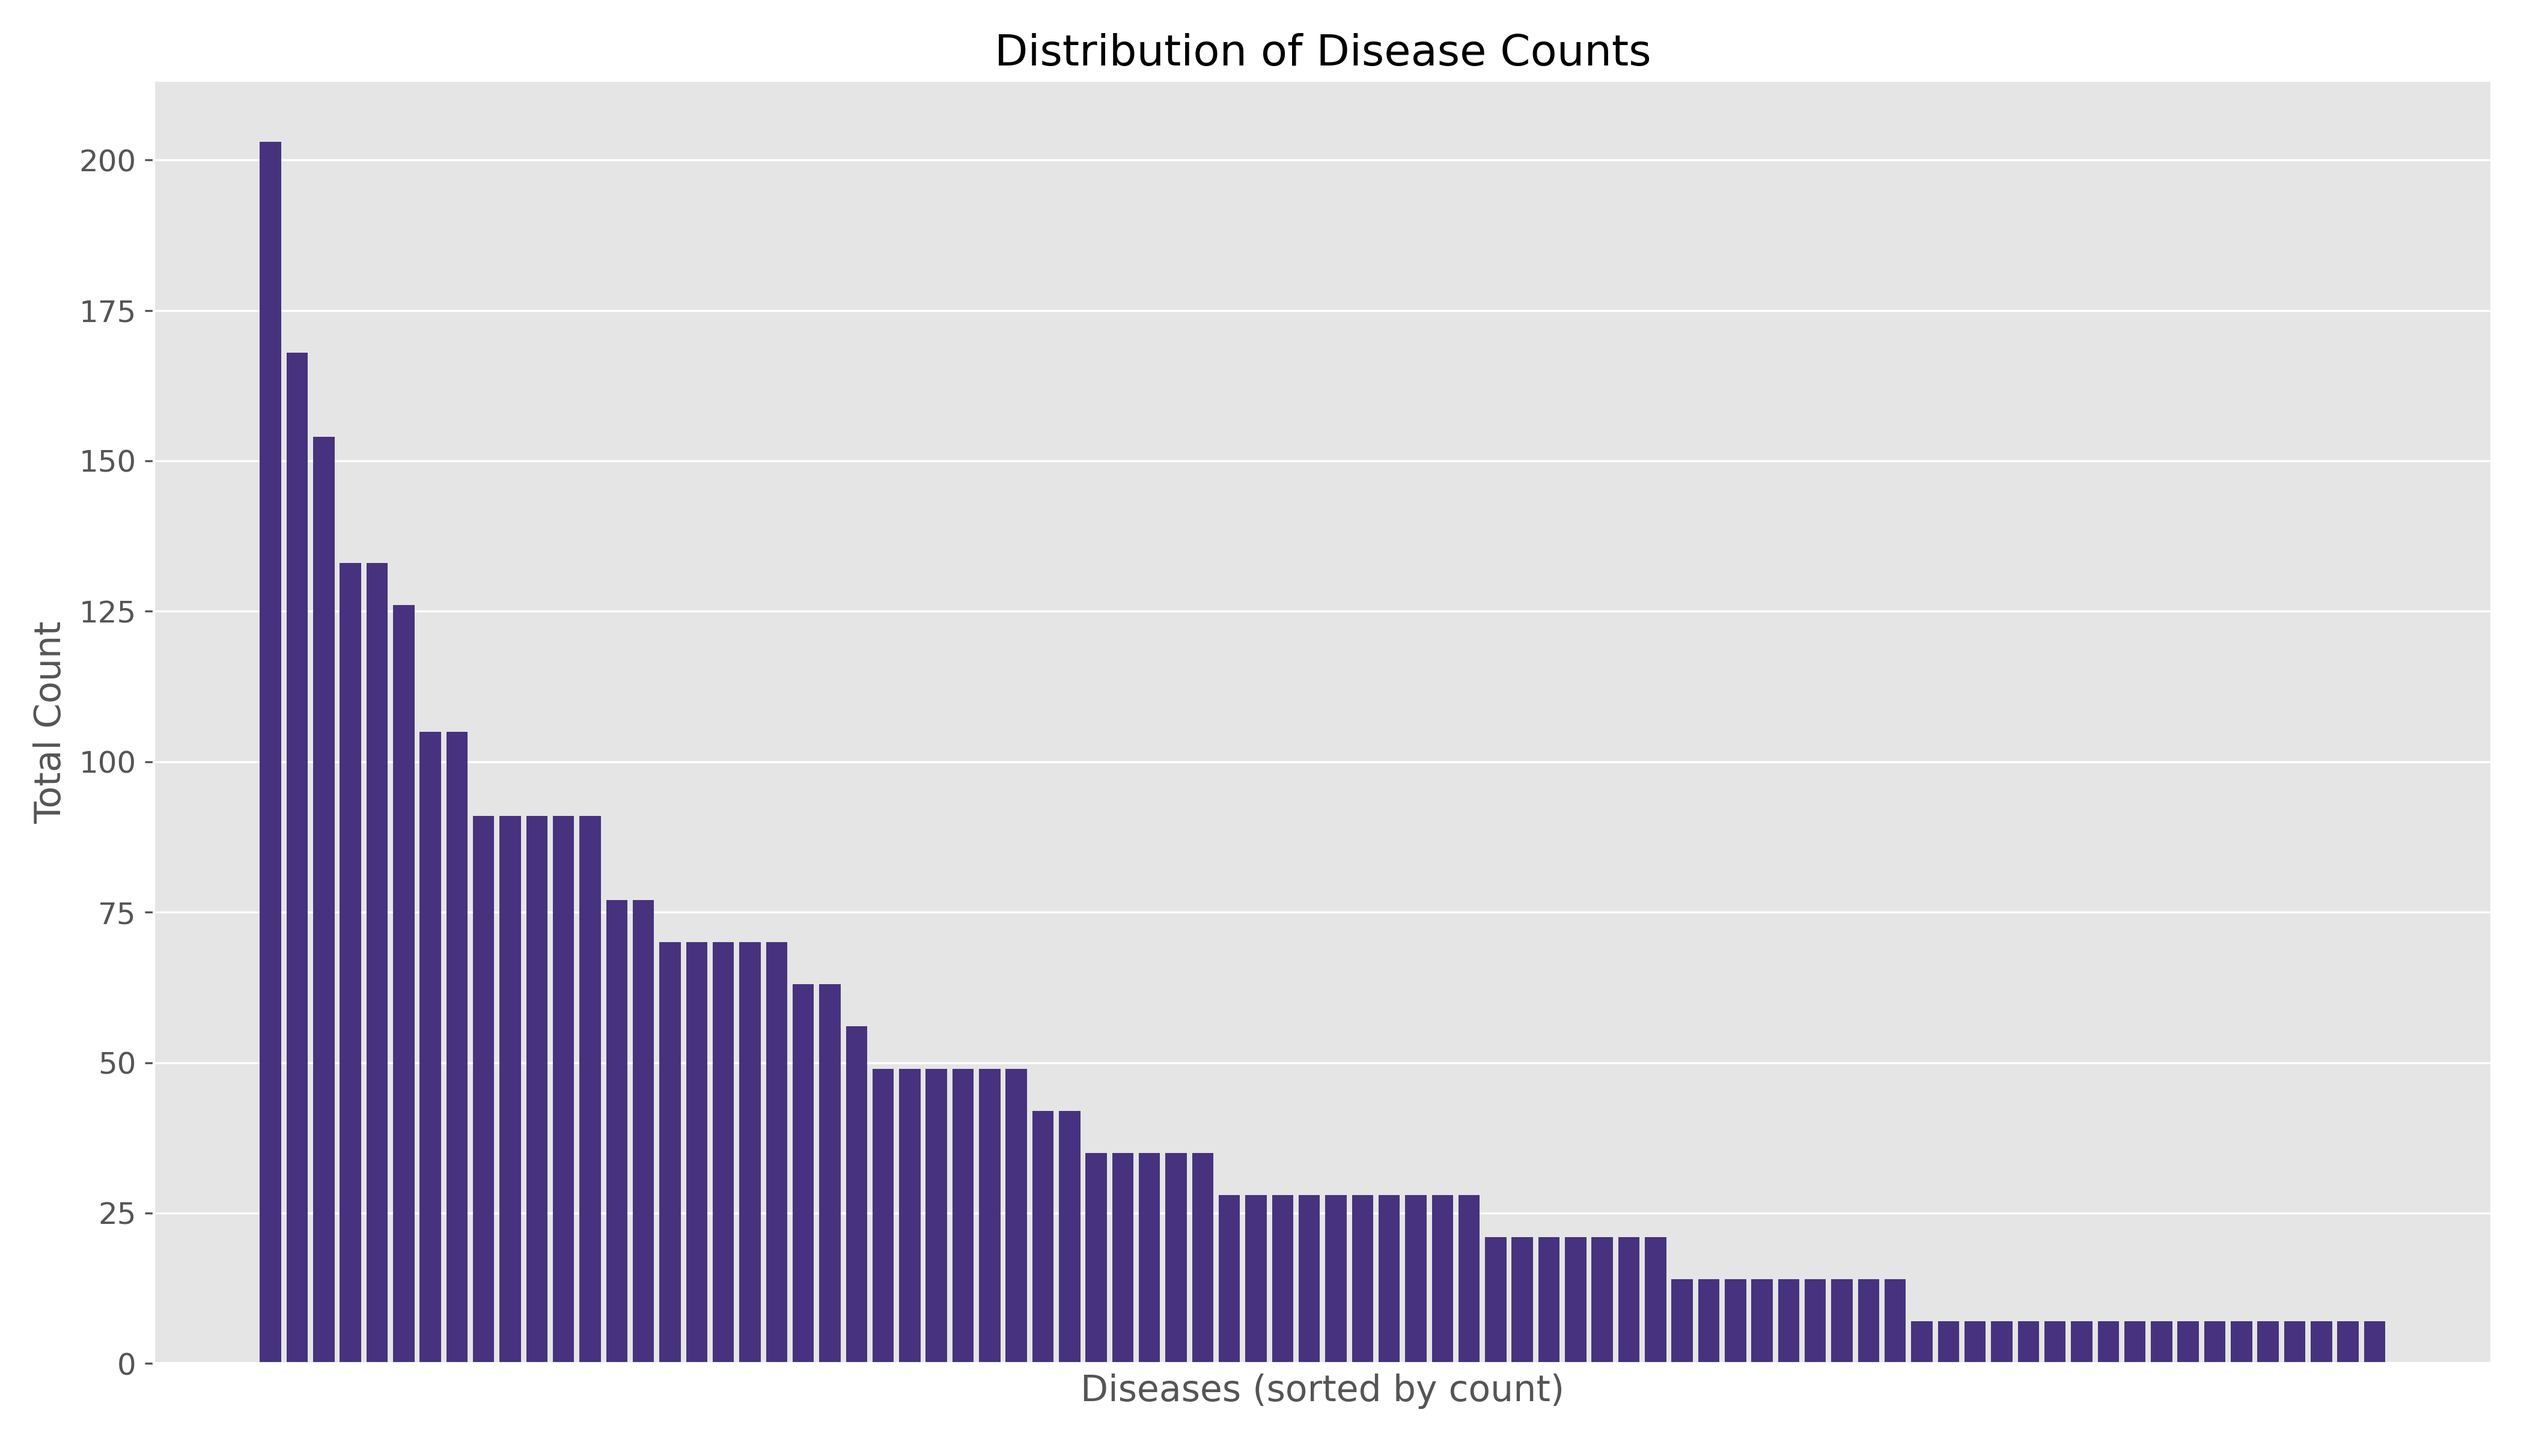
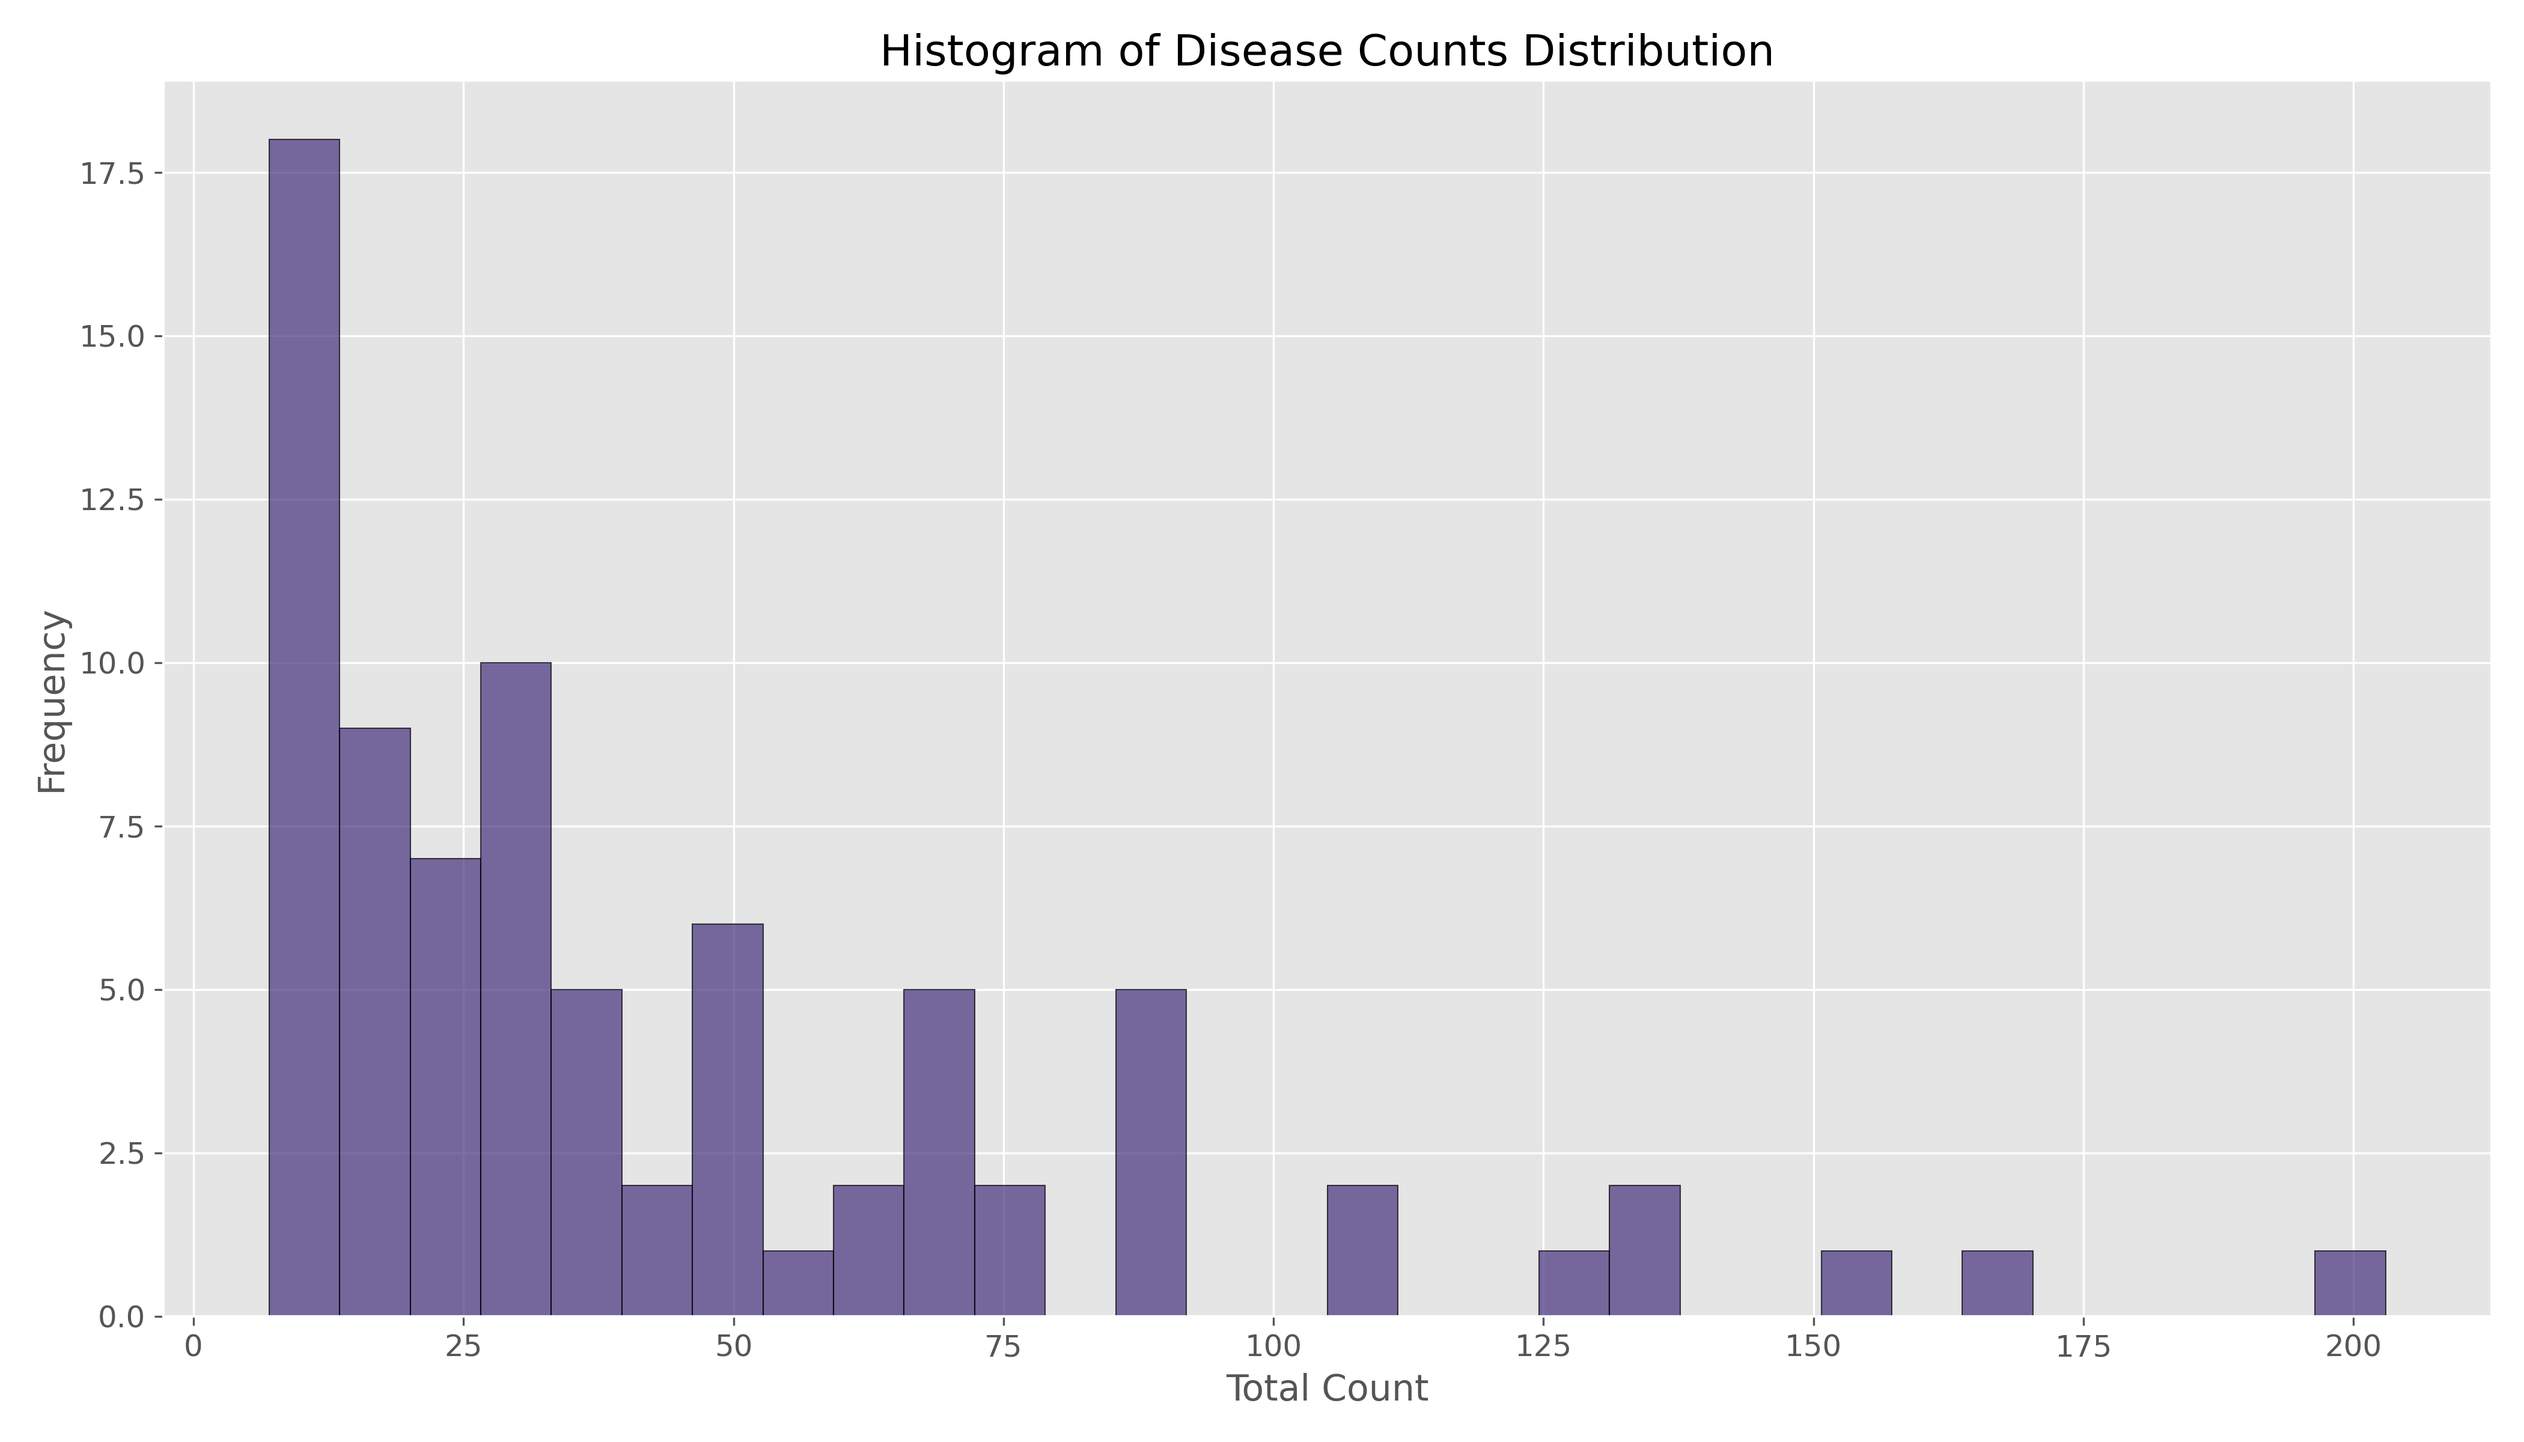
/update histogram & scatter plot

Changed region(s): [[0.0, 0.0625, 0.9981, 0.9688], [0.3431, 0.0312, 0.6862, 0.0625]]

diff --git a/visualization.py b/visualization.py
@@ -158,15 +158,16 @@ def plot_disease_success_rates(df):
 def plot_count_distribution(df):
     # shows the distribution of all diseases count
     # unable to show all diseases name - just for a general understanding of the distribution
-    disease_counts = df.groupby('disease')['total_count'].sum().sort_values(ascending=False).reset_index()
+    disease_counts = df.groupby('disease')['total_count'].sum().reset_index()
     
     plt.figure(figsize=(14, 8))
     
-    plt.bar(range(len(disease_counts)), disease_counts['total_count'])
-    plt.xticks([]) 
-    plt.xlabel('Diseases (sorted by count)')
-    plt.ylabel('Total Count')
-    plt.title('Distribution of Disease Counts')
+    plt.hist(disease_counts['total_count'], bins=30, alpha=0.7, edgecolor='black')
+    
+    plt.xlabel('Total Count')
+    plt.ylabel('Frequency')
+    plt.title('Histogram of Disease Counts Distribution')
+    
     
     plt.tight_layout()
     plt.savefig('visualization/disease_count_distribution.png', dpi=300)
@@ -252,18 +253,22 @@ def plot_accuracy_vs_count(df):
     # each subplot is for different epsilon values
     epsilon_values = sorted(df['epsilon'].unique())
     
-    fig, axes = plt.subplots(1, 7, figsize=(28, 5), sharey=True)
+    fig, axes = plt.subplots(2, 4, figsize=(20, 10), sharey=True)
     
+    axes = axes.flatten()
     for i, eps in enumerate(epsilon_values):
         eps_df = df[df['epsilon'] == eps]
 
         axes[i].scatter(eps_df['total_count'], eps_df['success_rate'], alpha=0.7)
         axes[i].set_title(f'ε = {eps}', fontsize=12)
         axes[i].set_xlabel('# of Counts')
-        axes[i].set_ylabel('Accuracy (Success Rate)' if i == 0 else '')  
+        axes[i].set_ylabel('Accuracy (Success Rate)' if i % 4 == 0 else '')  
         axes[i].grid(True, alpha=0.3)
+
+    for j in range(len(epsilon_values), len(axes)):
+        axes[j].axis('off')
     
-    plt.suptitle('Accuracy vs. Number of Counts for Different Epsilon Values', fontsize=16)
+    plt.suptitle('Accuracy vs. Number of Counts for Different Epsilon Values', fontsize=20)
     plt.tight_layout(rect=[0, 0, 1, 0.95])  
     plt.savefig('visualization/accuracy_vs_count.png', dpi=300)
     plt.close()
